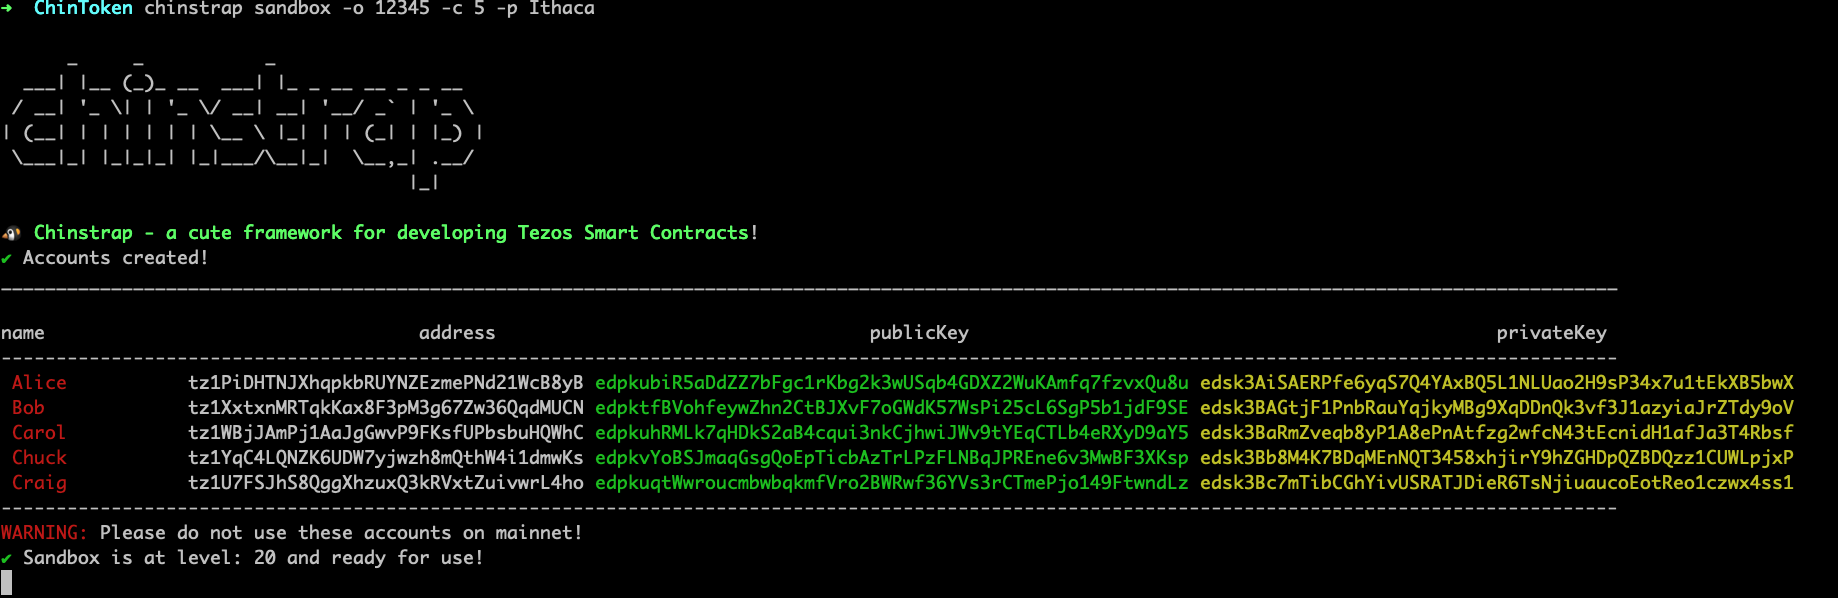
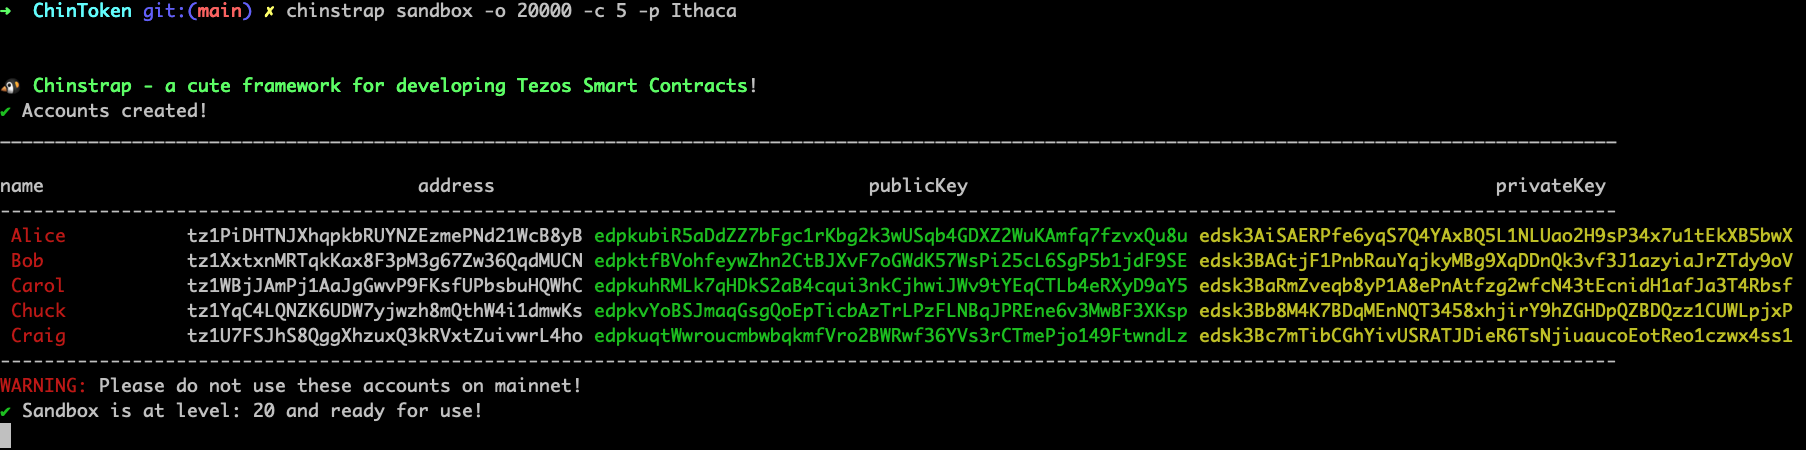
updated blog posts

diff --git a/.docusaurus/registry.js b/.docusaurus/registry.js
@@ -1,8 +1,8 @@
 export default {
-  '__routeContextModule---blog-885-84a': [() => import(/* webpackChunkName: '__routeContextModule---blog-885-84a' */ '/Users/ant4g0nist/Desktop/Tezos/chinstrap.io/.docusaurus/docusaurus-plugin-content-blog/default/plugin-route-context-module-100.json'), '/Users/ant4g0nist/Desktop/Tezos/chinstrap.io/.docusaurus/docusaurus-plugin-content-blog/default/plugin-route-context-module-100.json', require.resolveWeak('/Users/ant4g0nist/Desktop/Tezos/chinstrap.io/.docusaurus/docusaurus-plugin-content-blog/default/plugin-route-context-module-100.json')],
-  '__routeContextModule---docsd-17-a29': [() => import(/* webpackChunkName: '__routeContextModule---docsd-17-a29' */ '/Users/ant4g0nist/Desktop/Tezos/chinstrap.io/.docusaurus/docusaurus-plugin-content-docs/default/plugin-route-context-module-100.json'), '/Users/ant4g0nist/Desktop/Tezos/chinstrap.io/.docusaurus/docusaurus-plugin-content-docs/default/plugin-route-context-module-100.json', require.resolveWeak('/Users/ant4g0nist/Desktop/Tezos/chinstrap.io/.docusaurus/docusaurus-plugin-content-docs/default/plugin-route-context-module-100.json')],
-  '__routeContextModule---docusaurus-debug-050-06d': [() => import(/* webpackChunkName: '__routeContextModule---docusaurus-debug-050-06d' */ '/Users/ant4g0nist/Desktop/Tezos/chinstrap.io/.docusaurus/docusaurus-plugin-debug/default/plugin-route-context-module-100.json'), '/Users/ant4g0nist/Desktop/Tezos/chinstrap.io/.docusaurus/docusaurus-plugin-debug/default/plugin-route-context-module-100.json', require.resolveWeak('/Users/ant4g0nist/Desktop/Tezos/chinstrap.io/.docusaurus/docusaurus-plugin-debug/default/plugin-route-context-module-100.json')],
-  '__routeContextModule---markdown-pageb-2-b-2a1': [() => import(/* webpackChunkName: '__routeContextModule---markdown-pageb-2-b-2a1' */ '/Users/ant4g0nist/Desktop/Tezos/chinstrap.io/.docusaurus/docusaurus-plugin-content-pages/default/plugin-route-context-module-100.json'), '/Users/ant4g0nist/Desktop/Tezos/chinstrap.io/.docusaurus/docusaurus-plugin-content-pages/default/plugin-route-context-module-100.json', require.resolveWeak('/Users/ant4g0nist/Desktop/Tezos/chinstrap.io/.docusaurus/docusaurus-plugin-content-pages/default/plugin-route-context-module-100.json')],
+  '__routeContextModule---blog-831-5ca': [() => import(/* webpackChunkName: '__routeContextModule---blog-831-5ca' */ '/Users/ant4g0nist/Desktop/Blockchain/Tezos/Development/Chinstrap/chinstrap.io/.docusaurus/docusaurus-plugin-content-blog/default/plugin-route-context-module-100.json'), '/Users/ant4g0nist/Desktop/Blockchain/Tezos/Development/Chinstrap/chinstrap.io/.docusaurus/docusaurus-plugin-content-blog/default/plugin-route-context-module-100.json', require.resolveWeak('/Users/ant4g0nist/Desktop/Blockchain/Tezos/Development/Chinstrap/chinstrap.io/.docusaurus/docusaurus-plugin-content-blog/default/plugin-route-context-module-100.json')],
+  '__routeContextModule---docsff-3-bc2': [() => import(/* webpackChunkName: '__routeContextModule---docsff-3-bc2' */ '/Users/ant4g0nist/Desktop/Blockchain/Tezos/Development/Chinstrap/chinstrap.io/.docusaurus/docusaurus-plugin-content-docs/default/plugin-route-context-module-100.json'), '/Users/ant4g0nist/Desktop/Blockchain/Tezos/Development/Chinstrap/chinstrap.io/.docusaurus/docusaurus-plugin-content-docs/default/plugin-route-context-module-100.json', require.resolveWeak('/Users/ant4g0nist/Desktop/Blockchain/Tezos/Development/Chinstrap/chinstrap.io/.docusaurus/docusaurus-plugin-content-docs/default/plugin-route-context-module-100.json')],
+  '__routeContextModule---docusaurus-debugb-48-487': [() => import(/* webpackChunkName: '__routeContextModule---docusaurus-debugb-48-487' */ '/Users/ant4g0nist/Desktop/Blockchain/Tezos/Development/Chinstrap/chinstrap.io/.docusaurus/docusaurus-plugin-debug/default/plugin-route-context-module-100.json'), '/Users/ant4g0nist/Desktop/Blockchain/Tezos/Development/Chinstrap/chinstrap.io/.docusaurus/docusaurus-plugin-debug/default/plugin-route-context-module-100.json', require.resolveWeak('/Users/ant4g0nist/Desktop/Blockchain/Tezos/Development/Chinstrap/chinstrap.io/.docusaurus/docusaurus-plugin-debug/default/plugin-route-context-module-100.json')],
+  '__routeContextModule---markdown-page-656-62b': [() => import(/* webpackChunkName: '__routeContextModule---markdown-page-656-62b' */ '/Users/ant4g0nist/Desktop/Blockchain/Tezos/Development/Chinstrap/chinstrap.io/.docusaurus/docusaurus-plugin-content-pages/default/plugin-route-context-module-100.json'), '/Users/ant4g0nist/Desktop/Blockchain/Tezos/Development/Chinstrap/chinstrap.io/.docusaurus/docusaurus-plugin-content-pages/default/plugin-route-context-module-100.json', require.resolveWeak('/Users/ant4g0nist/Desktop/Blockchain/Tezos/Development/Chinstrap/chinstrap.io/.docusaurus/docusaurus-plugin-content-pages/default/plugin-route-context-module-100.json')],
   'allContent---docusaurus-debug-content-246-9aa': [() => import(/* webpackChunkName: 'allContent---docusaurus-debug-content-246-9aa' */ '~debug/default/docusaurus-debug-all-content-673.json'), '~debug/default/docusaurus-debug-all-content-673.json', require.resolveWeak('~debug/default/docusaurus-debug-all-content-673.json')],
   'archive---blog-archiveb-2-f-393': [() => import(/* webpackChunkName: 'archive---blog-archiveb-2-f-393' */ '~blog/default/blog-archive-80c.json'), '~blog/default/blog-archive-80c.json', require.resolveWeak('~blog/default/blog-archive-80c.json')],
   'component---site-src-pages-index-jsc-4-f-f99': [() => import(/* webpackChunkName: 'component---site-src-pages-index-jsc-4-f-f99' */ '@site/src/pages/index.js'), '@site/src/pages/index.js', require.resolveWeak('@site/src/pages/index.js')],

diff --git a/.docusaurus/routes.js b/.docusaurus/routes.js
@@ -5,92 +5,92 @@ import ComponentCreator from '@docusaurus/ComponentCreator';
 export default [
   {
     path: '/__docusaurus/debug',
-    component: ComponentCreator('/__docusaurus/debug','be6'),
+    component: ComponentCreator('/__docusaurus/debug','686'),
     exact: true
   },
   {
     path: '/__docusaurus/debug/config',
-    component: ComponentCreator('/__docusaurus/debug/config','d60'),
+    component: ComponentCreator('/__docusaurus/debug/config','cc3'),
     exact: true
   },
   {
     path: '/__docusaurus/debug/content',
-    component: ComponentCreator('/__docusaurus/debug/content','197'),
+    component: ComponentCreator('/__docusaurus/debug/content','613'),
     exact: true
   },
   {
     path: '/__docusaurus/debug/globalData',
-    component: ComponentCreator('/__docusaurus/debug/globalData','131'),
+    component: ComponentCreator('/__docusaurus/debug/globalData','ac5'),
     exact: true
   },
   {
     path: '/__docusaurus/debug/metadata',
-    component: ComponentCreator('/__docusaurus/debug/metadata','2a6'),
+    component: ComponentCreator('/__docusaurus/debug/metadata','a7c'),
     exact: true
   },
   {
     path: '/__docusaurus/debug/registry',
-    component: ComponentCreator('/__docusaurus/debug/registry','83b'),
+    component: ComponentCreator('/__docusaurus/debug/registry','408'),
     exact: true
   },
   {
     path: '/__docusaurus/debug/routes',
-    component: ComponentCreator('/__docusaurus/debug/routes','ec9'),
+    component: ComponentCreator('/__docusaurus/debug/routes','e36'),
     exact: true
   },
   {
     path: '/blog',
-    component: ComponentCreator('/blog','274'),
+    component: ComponentCreator('/blog','bb7'),
     exact: true
   },
   {
     path: '/blog/archive',
-    component: ComponentCreator('/blog/archive','c44'),
+    component: ComponentCreator('/blog/archive','b4d'),
     exact: true
   },
   {
     path: '/blog/chinstrap-tezos-smart-contract-development',
-    component: ComponentCreator('/blog/chinstrap-tezos-smart-contract-development','2da'),
+    component: ComponentCreator('/blog/chinstrap-tezos-smart-contract-development','7d8'),
     exact: true
   },
   {
     path: '/blog/chinstrap-tezos-smart-contract-development-repl',
-    component: ComponentCreator('/blog/chinstrap-tezos-smart-contract-development-repl','528'),
+    component: ComponentCreator('/blog/chinstrap-tezos-smart-contract-development-repl','702'),
     exact: true
   },
   {
     path: '/blog/tags',
-    component: ComponentCreator('/blog/tags','532'),
+    component: ComponentCreator('/blog/tags','551'),
     exact: true
   },
   {
     path: '/blog/tags/chinstrap',
-    component: ComponentCreator('/blog/tags/chinstrap','692'),
+    component: ComponentCreator('/blog/tags/chinstrap','6c2'),
     exact: true
   },
   {
     path: '/blog/tags/repl',
-    component: ComponentCreator('/blog/tags/repl','905'),
+    component: ComponentCreator('/blog/tags/repl','18b'),
     exact: true
   },
   {
     path: '/blog/tags/smart-contracts',
-    component: ComponentCreator('/blog/tags/smart-contracts','2c8'),
+    component: ComponentCreator('/blog/tags/smart-contracts','cf5'),
     exact: true
   },
   {
     path: '/blog/tags/tezos',
-    component: ComponentCreator('/blog/tags/tezos','a71'),
+    component: ComponentCreator('/blog/tags/tezos','4db'),
     exact: true
   },
   {
     path: '/markdown-page',
-    component: ComponentCreator('/markdown-page','ea1'),
+    component: ComponentCreator('/markdown-page','5b3'),
     exact: true
   },
   {
     path: '/docs',
-    component: ComponentCreator('/docs','dcf'),
+    component: ComponentCreator('/docs','75e'),
     routes: [
       {
         path: '/docs/',
@@ -155,7 +155,7 @@ export default [
   },
   {
     path: '/',
-    component: ComponentCreator('/','5e9'),
+    component: ComponentCreator('/','9b7'),
     exact: true
   },
   {

diff --git a/.docusaurus/client-modules.js b/.docusaurus/client-modules.js
@@ -1,6 +1,6 @@
 export default [
-  require('/Users/ant4g0nist/Desktop/Tezos/chinstrap.io/node_modules/infima/dist/css/default/default.css'),
-  require('/Users/ant4g0nist/Desktop/Tezos/chinstrap.io/node_modules/@docusaurus/theme-classic/lib/prism-include-languages'),
-  require('/Users/ant4g0nist/Desktop/Tezos/chinstrap.io/node_modules/@docusaurus/theme-classic/lib/admonitions.css'),
-  require('/Users/ant4g0nist/Desktop/Tezos/chinstrap.io/src/css/custom.css'),
+  require('/Users/ant4g0nist/Desktop/Blockchain/Tezos/Development/Chinstrap/chinstrap.io/node_modules/infima/dist/css/default/default.css'),
+  require('/Users/ant4g0nist/Desktop/Blockchain/Tezos/Development/Chinstrap/chinstrap.io/node_modules/@docusaurus/theme-classic/lib/prism-include-languages'),
+  require('/Users/ant4g0nist/Desktop/Blockchain/Tezos/Development/Chinstrap/chinstrap.io/node_modules/@docusaurus/theme-classic/lib/admonitions.css'),
+  require('/Users/ant4g0nist/Desktop/Blockchain/Tezos/Development/Chinstrap/chinstrap.io/src/css/custom.css'),
 ];

diff --git a/.docusaurus/docusaurus.config.js b/.docusaurus/docusaurus.config.js
@@ -18,7 +18,7 @@ export default {
       "classic",
       {
         "docs": {
-          "sidebarPath": "/Users/ant4g0nist/Desktop/Tezos/chinstrap.io/sidebars.js",
+          "sidebarPath": "/Users/ant4g0nist/Desktop/Blockchain/Tezos/Development/Chinstrap/chinstrap.io/sidebars.js",
           "editUrl": "https://github.com/ant4g0nist/chinstrap.io/blob/main/"
         },
         "blog": {
@@ -26,7 +26,7 @@ export default {
           "editUrl": "https://github.com/ant4g0nist/chinstrap.io/blob/main/"
         },
         "theme": {
-          "customCss": "/Users/ant4g0nist/Desktop/Tezos/chinstrap.io/src/css/custom.css"
+          "customCss": "/Users/ant4g0nist/Desktop/Blockchain/Tezos/Development/Chinstrap/chinstrap.io/src/css/custom.css"
         }
       }
     ]

diff --git a/blog/Chinstrap - Tezos smart contract development.md b/blog/Chinstrap - Tezos smart contract development.md
@@ -75,7 +75,16 @@ chinstrap init
 
 ![chinstrap-init](/img/chinstrap-init.png)
 
-For convenience, on project initialization, Chinstrap also generates a mnemonic and a private key using PyTezos with an empty passphrase. You can find the mnemonic inside the `.mnemonic` file and the private key inside `.secret` file
+For convenience, Chinstrap provides a flag to generate new mnemonic and secret without a passphrase. 
+
+```sh
+chinstrap init -h
+```
+![chinstrap-init](/img/chinstrap-init-1.png)
+
+You can find the mnemonic inside the `.mnemonic` file and the private key inside `.secret` file
+
+For this blog, I am going to use a test private key generated by `chinstrap sandbox` command which we will see how to use in the following sections.
 
 ![chinstrap-init](/img/chinstrap-secret.png)
 
@@ -87,7 +96,7 @@ Chinstrap configuration file is a YAML file that tells chinstrap, which account 
 chinstrap:
   network:
     development:
-      host: http://localhost:12345
+      host: http://localhost:20000
       accounts:
         - privateKeyFile: ./.secret
   compiler:
@@ -96,10 +105,12 @@ chinstrap:
 ```
 
 ## Contract development
-We can get the FA1.2 implementation from SmartPy by running the `chinstrap templates` command and selecting `Token Contracts` using the arrows.
+We can get the FA1.2 implementation from SmartPy/Ligo by running the `chinstrap templates` command.
 
 ```sh
 ➜ chinstrap templates -h
+
+🐧 Chinstrap - a cute framework for developing Tezos Smart Contracts!
 
       _     _           _
   ___| |__ (_)_ __  ___| |_ _ __ __ _ _ __
@@ -108,22 +119,26 @@ We can get the FA1.2 implementation from SmartPy by running the `chinstrap templ
  \___|_| |_|_|_| |_|___/\__|_|  \__,_| .__/
                                      |_|
 
-🐧 Chinstrap - a cute framework for developing Tezos Smart Contracts!
-usage: chinstrap templates [-h] -l {JsLIGO,PascaLIGO,CameLIGO,ReasonLIGO,SmartPy}
+Docs 📖   : https://chinstrap.io/
+Tele 💬   : https://t.me/chinstrap_io
+
+usage: chinstrap templates [-h] (-l {JsLIGO,PascaLIGO,CameLIGO,ReasonLIGO,SmartPy} | -f)
 
 optional arguments:
   -h, --help            show this help message and exit
   -l {JsLIGO,PascaLIGO,CameLIGO,ReasonLIGO,SmartPy}, --language {JsLIGO,PascaLIGO,CameLIGO,ReasonLIGO,SmartPy}
-                        The type of the item to create
+                        Target language to search templates for.
+  -f, --fa1-2-smartpy   Create FA1.2 contract, test and origination template
 ```
+
+Let's create FA1.2 templates by running `chinstrap templates -f`
 
 ![chinstrap-template](/img/chinstrap-template.png)
 
-Now we are ready to compile the test 🕺💃
-
-
-## Restructure FA1.2 Contract
-Wait, we have one additional step before we are ready to start compiling and testing the contract. We move the `test` function defined in `contracts/FA1.2.py` to another file in `tests`. Let's call this test `FA1.2.test.py`
+This creates 3 files:
+- contracts/FA1.2.py       - FA1.2 Contract template implementation in SmartPy
+- tests/FA1.2.smartpy.py   - FA1.2 tests template implementation in SmartPy
+- originations/1_FA12_origination.py  - FA1.2 template origination
 
 Ok, now we are ready to compile the test 🕺💃
 
@@ -180,11 +195,13 @@ Let's initialize the sandbox before we start running it. We can initialize the s
 chinstrap sandbox -i
 ```
 
-Now, we can start the sandbox by running
+Now, we can start the sandbox in synchronous mode by running
 
 ```sh
-chinstrap sandbox -o 12345 -c 5 -p Ithaca
+chinstrap sandbox -o 20000 -c 5 -p Ithaca
 ```
+
+If you would like to run sandbox in the background or detached mode, you can pass `-d` or `--detach` flag when starting the sandbox
 
 ![chinstrap sandbox](/img/chinstrap-sandbox.png)
 

diff --git a/blog/Chinstrap - Tezos smart contract development using repl.md b/blog/Chinstrap - Tezos smart contract development using repl.md
@@ -22,9 +22,6 @@ Please read the [Part-1](https://chinstrap.io/blog/chinstrap-tezos-smart-contrac
 
 Chinstrap's read–eval–print loop (REPL) is a simple interactive development environment that takes a single command/method call, executes them, and returns the result. Using repl makes interacting with the deployed contracts on the chain easy.
 
-[![asciicast](https://asciinema.org/a/OpybONHPCiyDUU5vv3NdMMG5s.svg)](https://asciinema.org/a/OpybONHPCiyDUU5vv3NdMMG5s)
-
-
 Chinstrap provides a `develop` sub-command that provides a repl to develop interactively. `chinstrap develop` launches a powerful repl, exposing Chinstrap's functionality to the repl, making the interaction with Tezos networks much more effortless.
 
 ```sh
@@ -49,7 +46,7 @@ The configuration for the local development should like:
 chinstrap:
   network:
     development:
-      host: http://localhost:12345
+      host: http://localhost:20000
       accounts:
         - privateKeyFile: ./.secret
   compiler:
@@ -57,10 +54,10 @@ chinstrap:
     test: smartpy
 ```
 
-To start a local sandbox on port 12345, generate 5 test accounts and use Ithaca protocol, and launch the repl, run the following command:
+To start a local sandbox on port 20000, generate 5 test accounts and use Ithaca protocol, and launch the repl, run the following command:
 
 ```sh
-chinstrap develop -p Ithaca -n development -o 12345 -c 5
+chinstrap develop -p Ithaca -n development -o 20000 -c 5
 ```
 ![repl-launch](/img/repl-launch.png)
 
